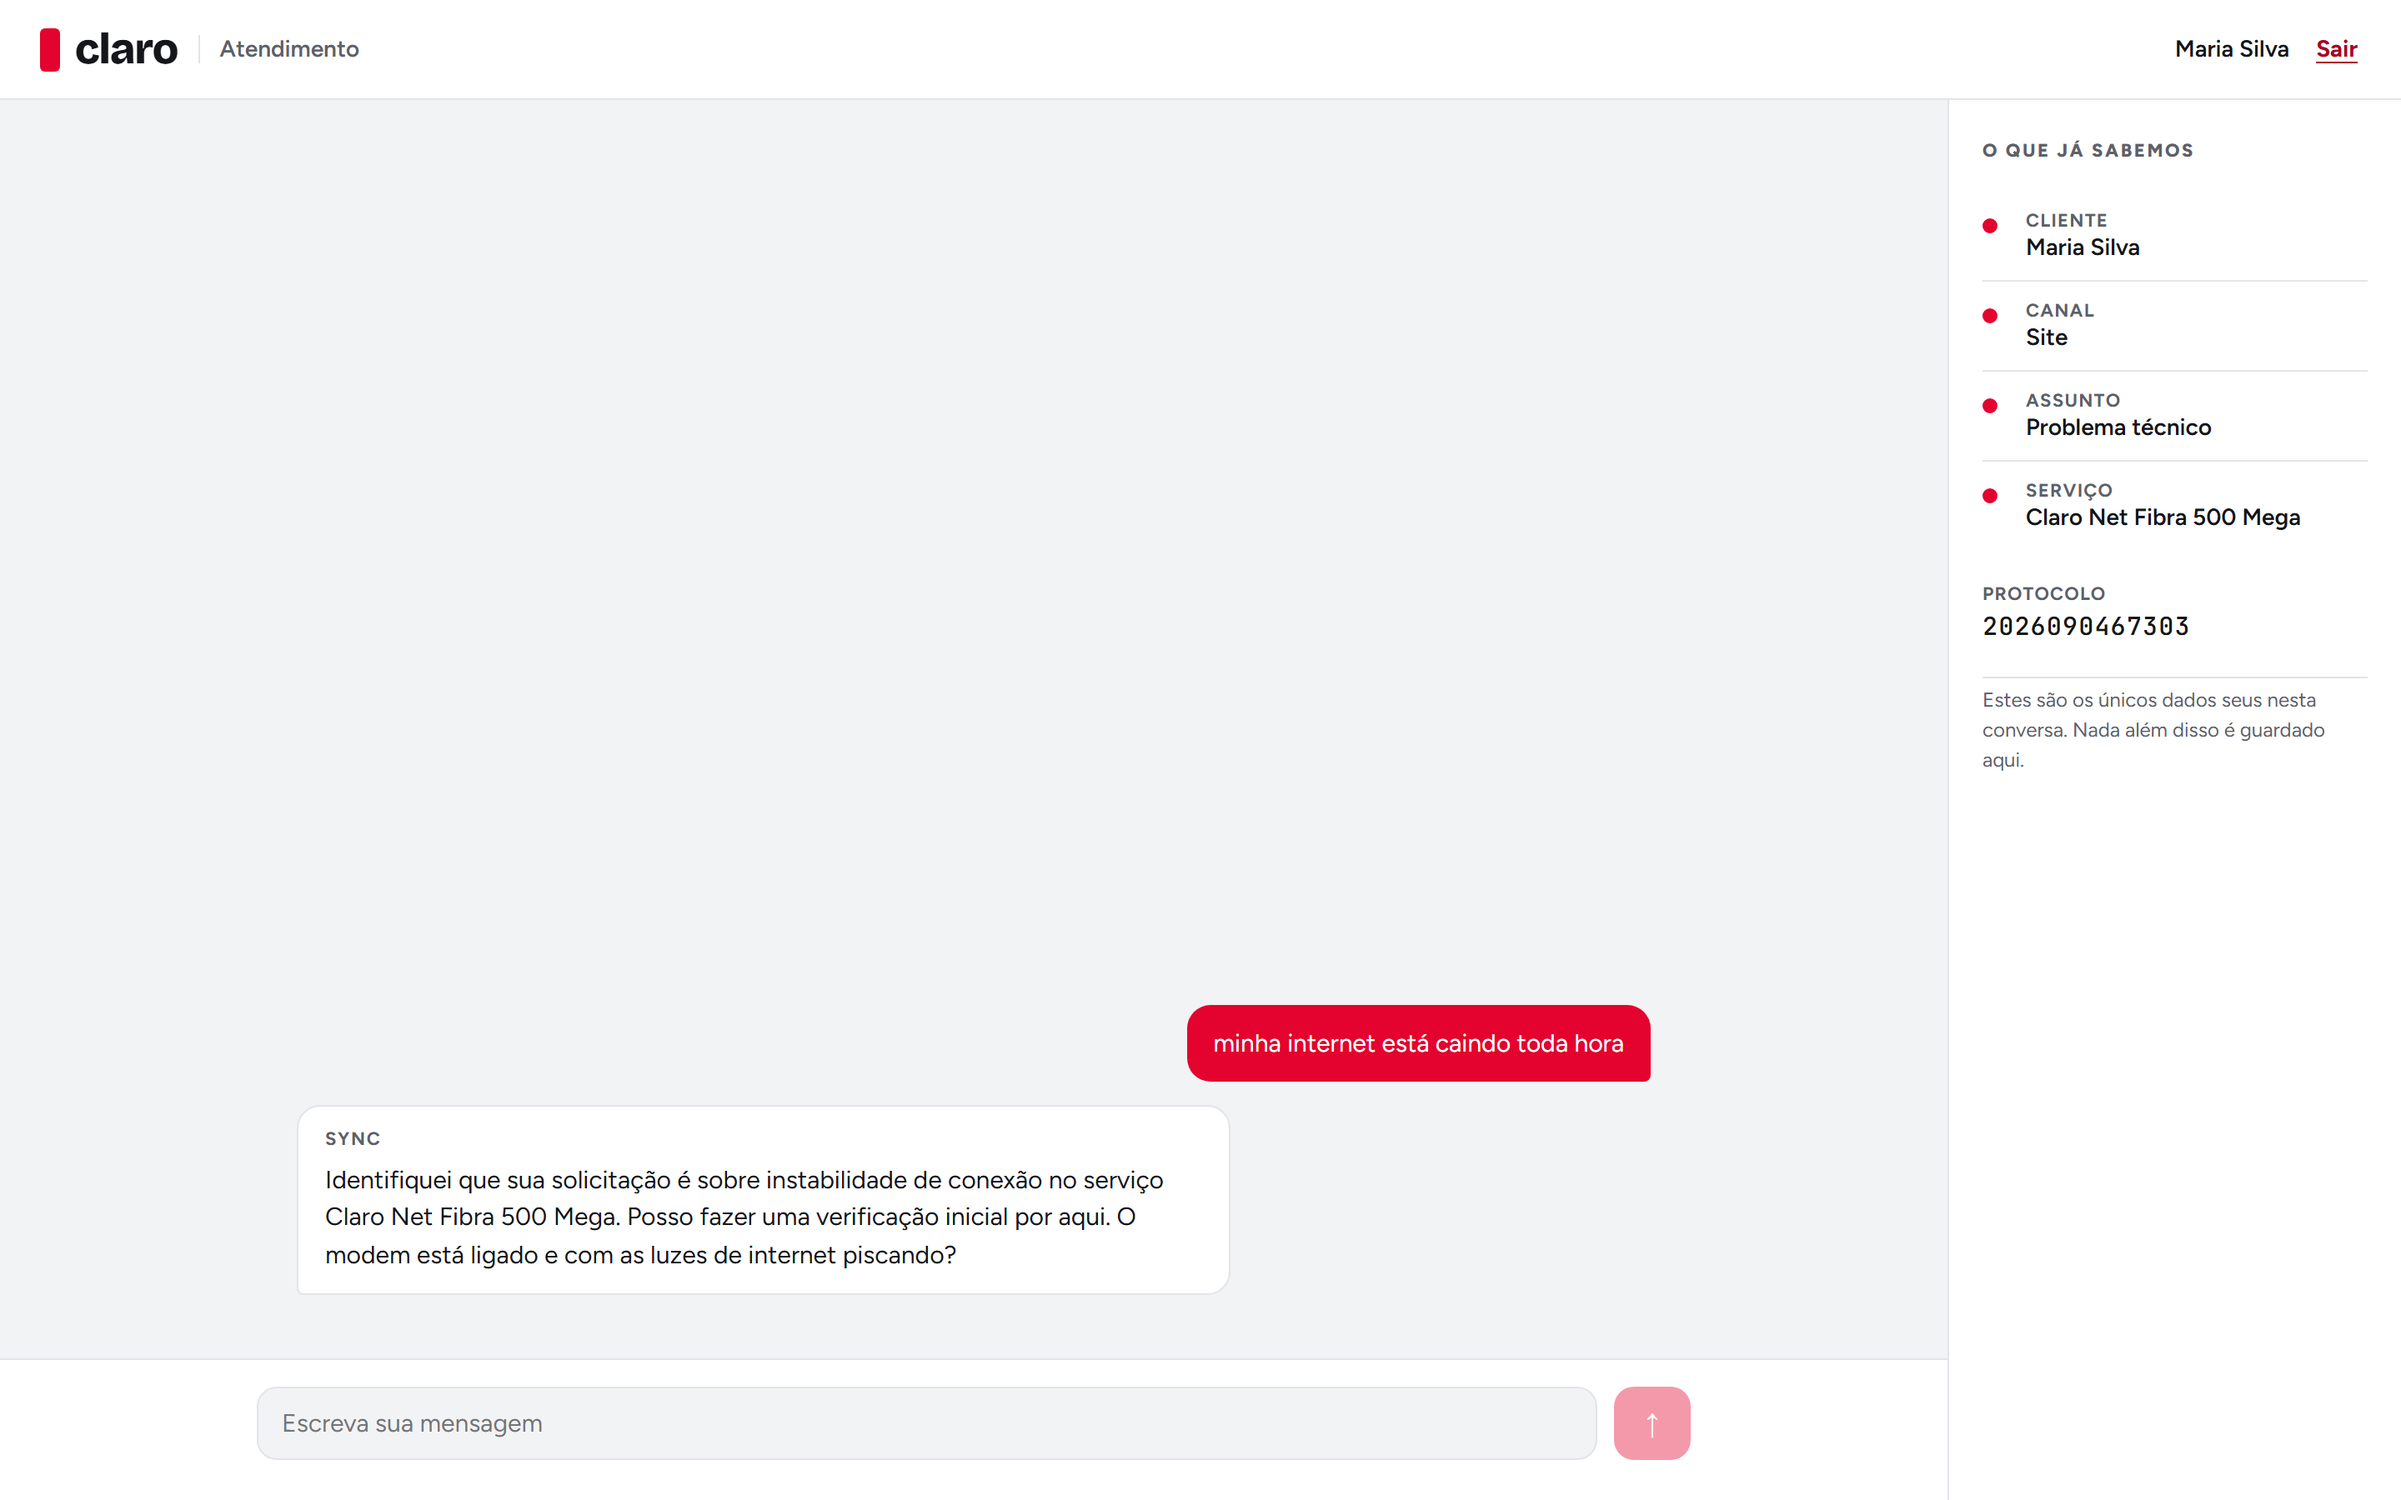
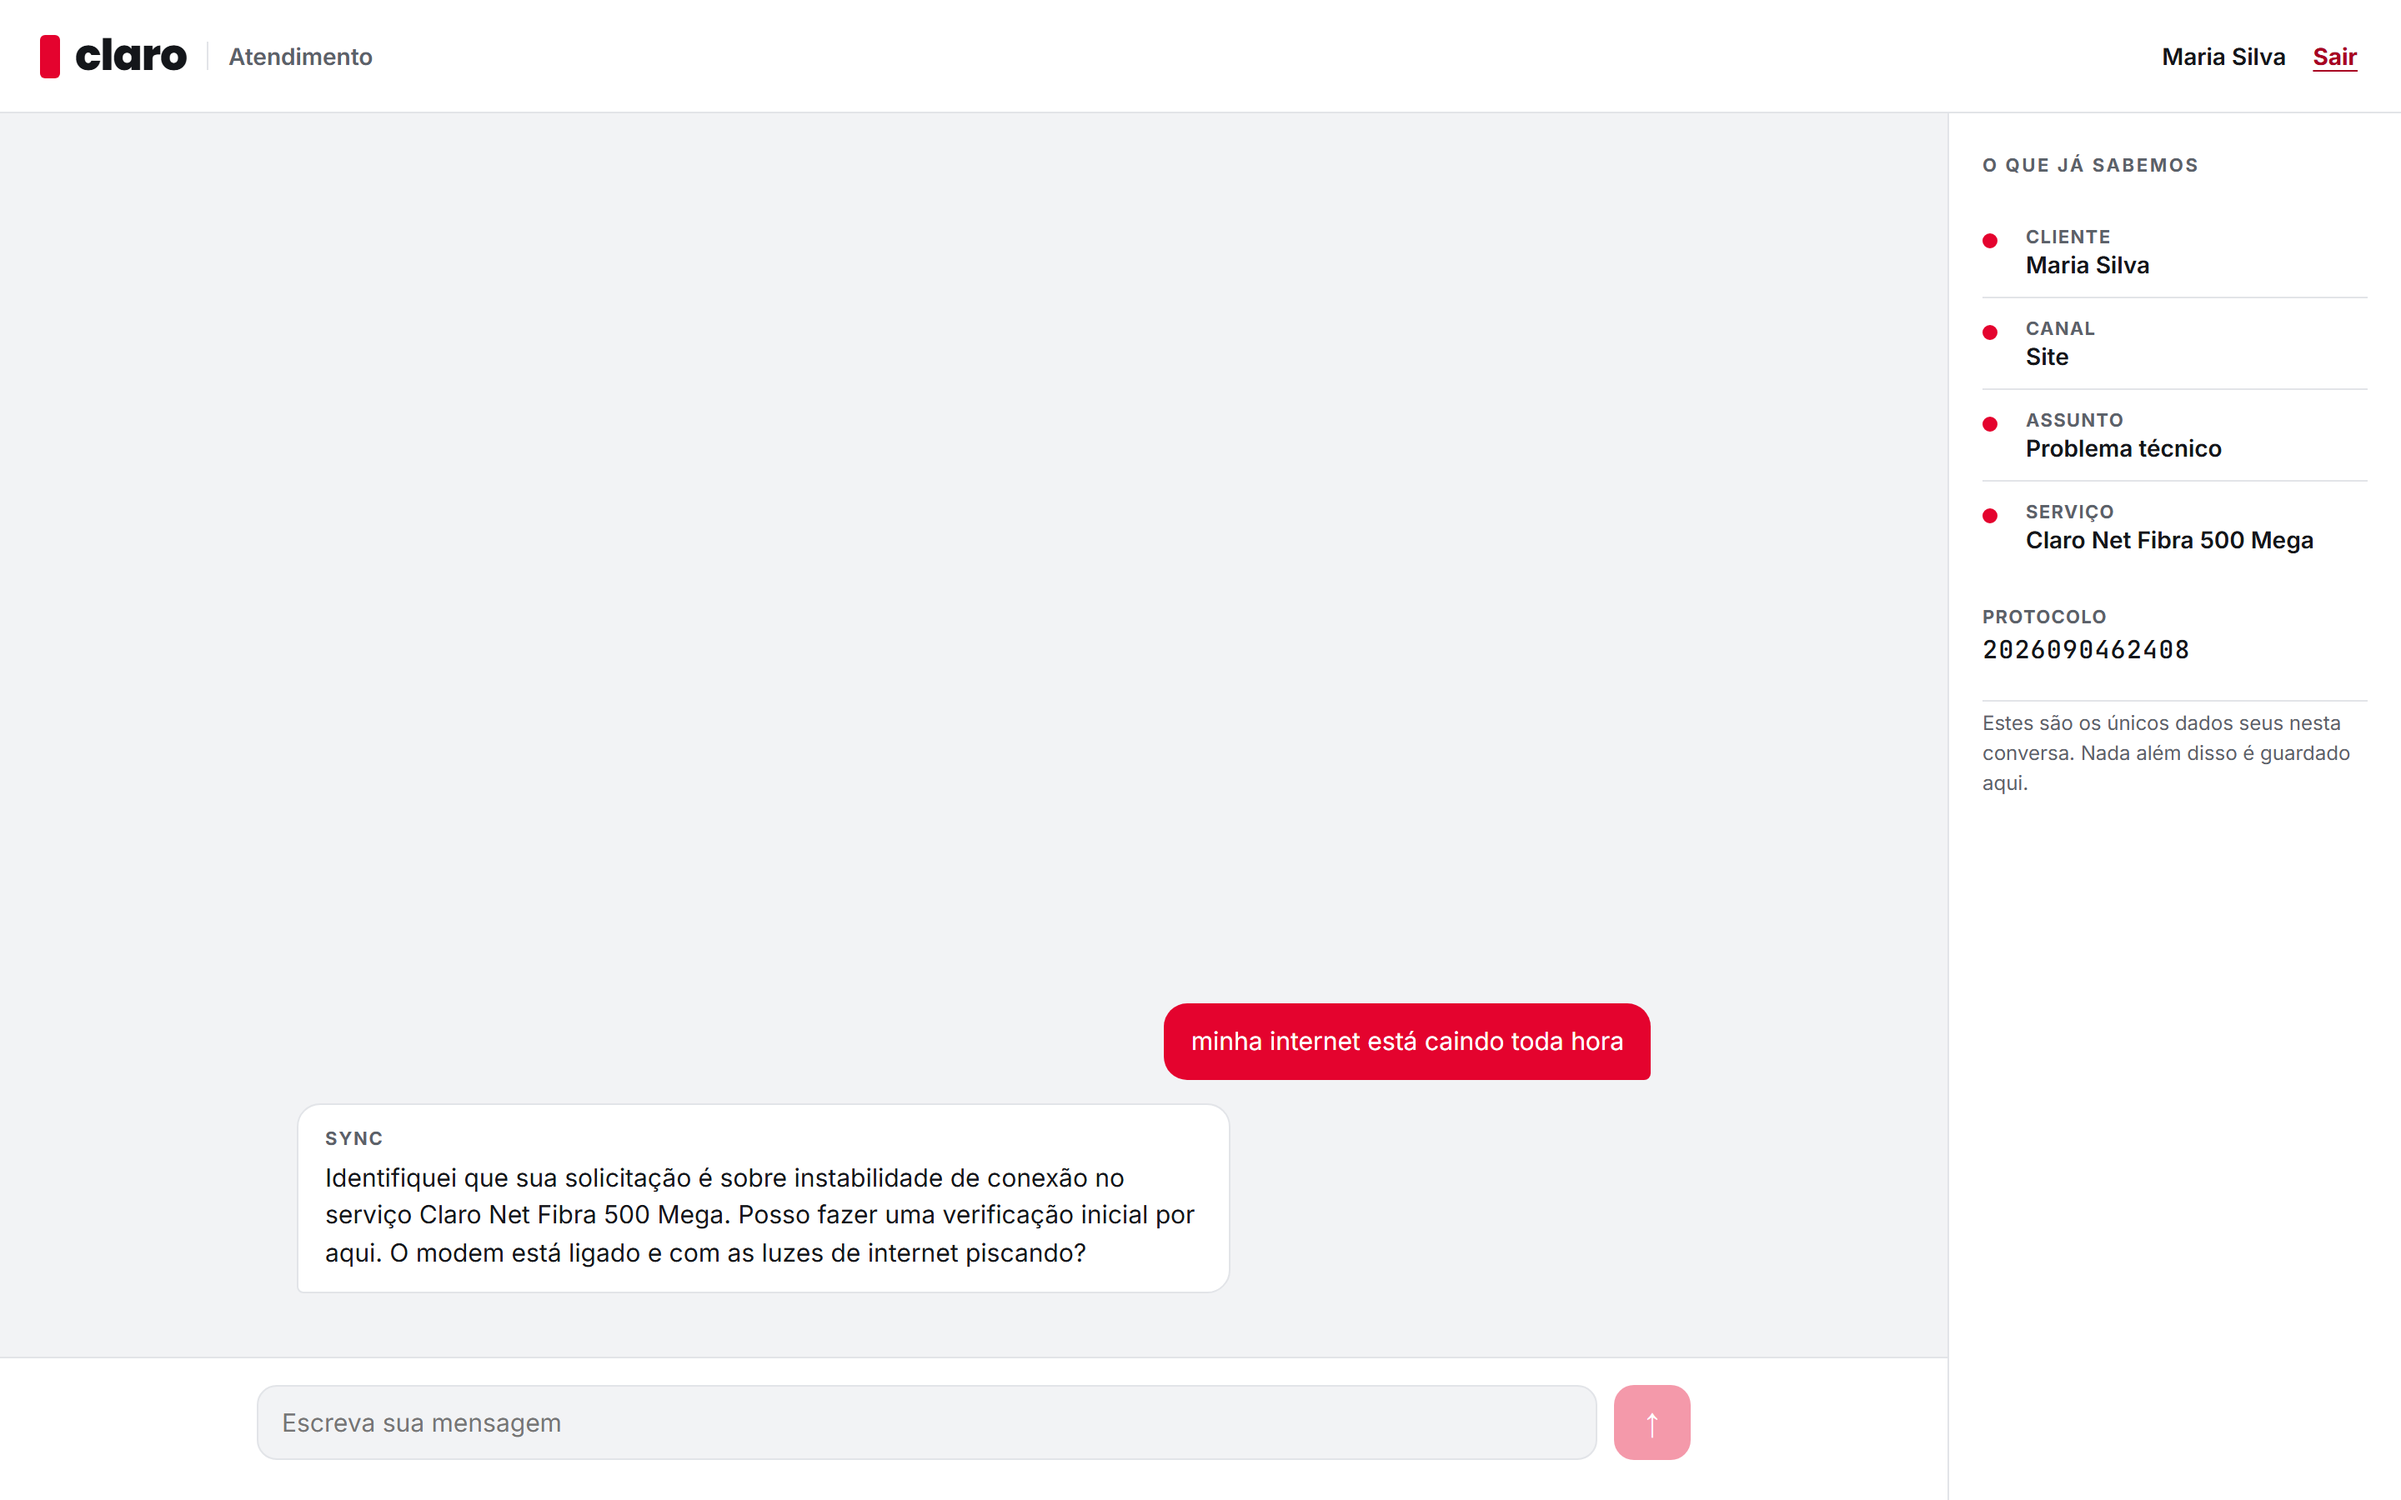
style: switch to Inter for UI and Poppins for display
Poppins runs noticeably wider than the previous display face at the same
size, so the headline scale came down a step to keep it inside the red
column.

diff --git a/apps/web-site/src/styles.css b/apps/web-site/src/styles.css
@@ -7,8 +7,8 @@
   --card: #ffffff;
   --line: #e2e4e8;
 
-  --font-display: 'Bricolage Grotesque', 'Figtree', system-ui, sans-serif;
-  --font-ui: 'Figtree', system-ui, -apple-system, 'Segoe UI', sans-serif;
+  --font-display: 'Poppins', system-ui, sans-serif;
+  --font-ui: 'Inter', system-ui, -apple-system, 'Segoe UI', sans-serif;
   --font-data: 'JetBrains Mono', ui-monospace, Consolas, monospace;
 
   color-scheme: light;
@@ -184,9 +184,9 @@ body {
 .auth__headline {
   font-family: var(--font-display);
   font-weight: 800;
-  font-size: clamp(38px, 5vw, 60px);
-  line-height: 1.02;
-  letter-spacing: -0.035em;
+  font-size: clamp(34px, 4.4vw, 52px);
+  line-height: 1.08;
+  letter-spacing: -0.03em;
   margin: 0;
 }
 

diff --git a/apps/web-site/index.html b/apps/web-site/index.html
@@ -7,7 +7,7 @@
     <link rel="preconnect" href="https://fonts.googleapis.com" />
     <link rel="preconnect" href="https://fonts.gstatic.com" crossorigin />
     <link
-      href="https://fonts.googleapis.com/css2?family=Bricolage+Grotesque:opsz,wght@12..96,600;12..96,800&family=Figtree:wght@400;500;600;700;800&family=JetBrains+Mono:wght@500&display=swap"
+      href="https://fonts.googleapis.com/css2?family=Inter:wght@400;500;600;700&family=Poppins:wght@600;700;800&family=JetBrains+Mono:wght@500&display=swap"
       rel="stylesheet"
     />
   </head>

diff --git a/packages/chat-ui/src/chat-ui.css b/packages/chat-ui/src/chat-ui.css
@@ -9,8 +9,8 @@
   --card: #ffffff;
   --line: #e2e4e8;
 
-  --font-display: 'Bricolage Grotesque', 'Figtree', system-ui, sans-serif;
-  --font-ui: 'Figtree', system-ui, -apple-system, 'Segoe UI', sans-serif;
+  --font-display: 'Poppins', system-ui, sans-serif;
+  --font-ui: 'Inter', system-ui, -apple-system, 'Segoe UI', sans-serif;
   --font-data: 'JetBrains Mono', ui-monospace, 'SF Mono', Consolas, monospace;
 
   --radius: 14px;
